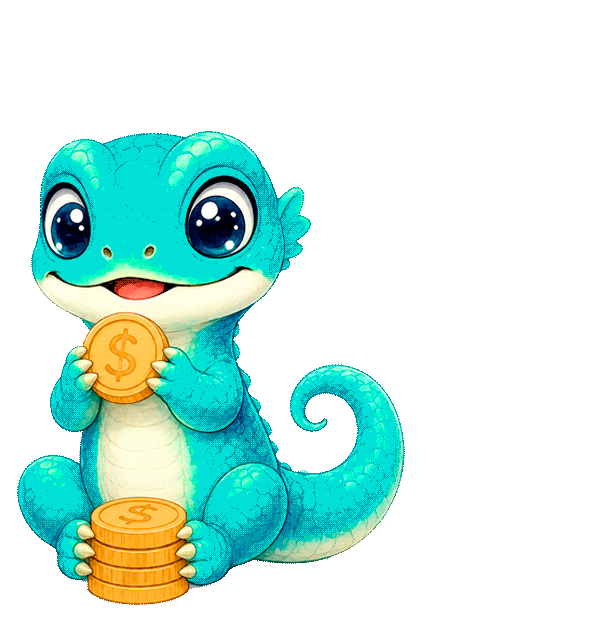
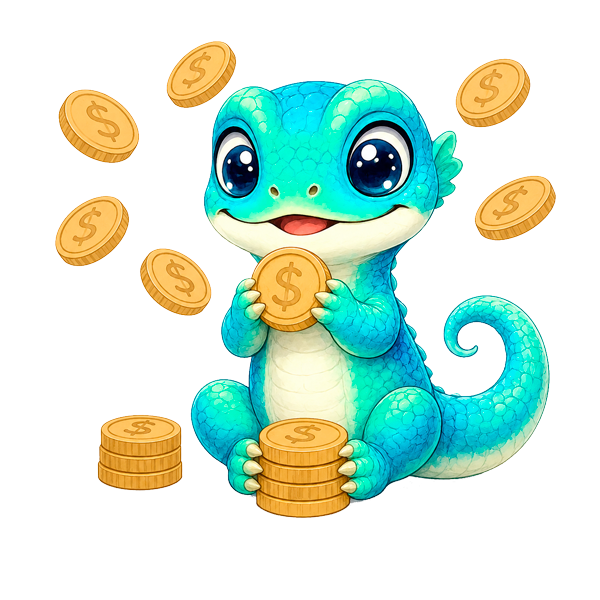
cambios en la mascota otra vez

diff --git a/src/components/PPEF.vue b/src/components/PPEF.vue
@@ -1,80 +1,115 @@
 <template>
   <section class="hero" v-if="datos">
-    <div class=" w-full flex flex-col lg:flex-row lg:items-center lg:justify-between gap-4">
+    <div class="hero-content">
 
-      <div class=" flex-1">
-        <!-- ========================================
+      <!-- ========================================
            1. TÍTULO
       ========================================= -->
-        <div class="hero-title">
-          <h1 class="titulo-principal">
-            <span class="linea">
-              Paquete Económico 2027
-            </span>
-          </h1>
-        </div>
+      <div class="hero-title">
+        <h1 class="titulo-principal">
+          <span class="linea">
+            Paquete Económico 2027
+          </span>
+        </h1>
+      </div>
 
-        <!-- ========================================
+
+      <div class="hero-image">
+        <img :src="`${baseUrl}secciones/PPEF/XIUH.png`" alt="XIUH" class="xiuh" />
+        <img :src="`${baseUrl}secciones/PPEF/soy_XIUH.png`" alt="Soy XIUH" class="w-[50%]" />
+      </div>
+
+
+      <!-- ========================================
            3. DATOS
       ========================================= -->
-        <div class="hero-info">
+      <div class="hero-info">
 
-          <div class="bloque-datos">
-            <p class="etiqueta">
-              {{ datos.subtituloGasto }}
-            </p>
+        <div class="bloque-datos">
+          <p class="etiqueta">
+            {{ datos.subtituloGasto }}
+          </p>
 
-            <p class="monto">
-              {{ datos.monto }}
-            </p>
+          <p class="monto">
+            {{ datos.monto }}
+          </p>
 
-            <p class="unidad">
-              {{ datos.unidad }}
-            </p>
-          </div>
-
-
-          <div class="bloque-crecimiento">
-            <p class="porcentaje">
-              {{ datos.crecimiento }}
-            </p>
-
-            <p class="comparativa">
-              {{ datos.comparativa }}
-            </p>
-
-            <p class="nota">
-              {{ datos.nota }}
-            </p>
-          </div>
-
+          <p class="unidad">
+            {{ datos.unidad }}
+          </p>
         </div>
+
+
+        <div class="bloque-crecimiento">
+          <p class="porcentaje">
+            {{ datos.crecimiento }}
+          </p>
+
+          <p class="comparativa">
+            {{ datos.comparativa }}
+          </p>
+
+          <p class="nota">
+            {{ datos.nota }}
+          </p>
+        </div>
+
       </div>
-      <!-- ========================================
-           2. MASCOTA
-      ========================================= -->
-      <div class="hero-image">
-        <img :src="`${baseUrl}secciones/PPEF/XIUH.${image}`" alt="XIUH" @mouseenter="image = 'gif'"
-          @mouseleave="image = 'png'" />
-      </div>
+
     </div>
+
+  </section>
+  <section class="w-full flex flex-col items-center justify-center contenedor-xiuh"
+    ref="contenedorXiuh">
+    <article class="ver-mas w-full  flex-col xl:flex-row gap-4 transition transition-all duration-300 ease" :class="{
+      'activo': verMas,
+    }">
+      <Tarjetas_XIUH :card="card" v-for="card in xiuh" :key="card.titulo" />
+    </article>
+    <button type="button" class="text-white cursor-pointer 
+          flex flex-col items-center justify-center" :class="{ 'animate-bounce ': !verMas }" @click="verMas = !verMas">
+      <ChevronDobleDown class="text-3xl transition transition-all duration-300 ease"
+        :class="{ 'rotate-180': verMas }" />
+      <span class="transition transition-all duration-300 ease" :class="{ 'opacity-0': verMas }">Conóceme</span>
+    </button>
   </section>
 </template>
 
 <script setup>
-import { onMounted, ref } from 'vue'
+import { onMounted, onUnmounted, ref } from 'vue'
 import { fetchPublicJson } from './utils/utils.js';
-import Mascota from './utils/Mascota.vue'
 import { baseUrl } from './secciones/Inversion/mapController.js';
-
+import ChevronDobleDown from './utils/Icons/ChevronDobleDown.vue';
+import Tarjetas_XIUH from './Tarjetas_XIUH.vue';
+const verMas = ref(false);
 const datos = ref(null)
-const image = ref('png')
-
+const xiuh = ref(null);
+const contenedorXiuh=ref(null);
 onMounted(async () => {
   datos.value = await fetchPublicJson(
     "/secciones/PPEF/paquete.json"
   );
+  xiuh.value = await fetchPublicJson("/secciones/PPEF/xiuh.json")
 });
+const handleClickOutside = (event) => {
+  const target = event.target 
+
+  if (
+    contenedorXiuh.value &&
+    !contenedorXiuh.value.contains(target)
+  ) {
+    verMas.value = false
+  }
+}
+onMounted(() => {
+  document.addEventListener('click', handleClickOutside)
+})
+
+onUnmounted(() => {
+  document.removeEventListener('click', handleClickOutside)
+})
+
+
 </script>
 
 <style scoped>
@@ -82,7 +117,6 @@ onMounted(async () => {
   position: relative;
 
   width: 100%;
-  min-height: 70dvh;
 
   display: flex;
   align-items: center;
@@ -90,7 +124,7 @@ onMounted(async () => {
 
   padding: 3rem;
   box-sizing: border-box;
-
+  padding-bottom: 1rem;
   overflow: visible;
 }
 
@@ -121,7 +155,7 @@ onMounted(async () => {
 
   display: flex;
   align-items: center;
-  justify-content: flex-start;
+  justify-content: flex-end;
 
   color: #ffffff;
 }
@@ -134,8 +168,10 @@ onMounted(async () => {
 
   font-size: clamp(2.8rem, 4vw, 4.5rem);
 
+  line-height: 1.05;
+  letter-spacing: -0.02em;
 
-  text-align: left;
+  text-align: right;
 }
 
 .titulo-principal .linea {
@@ -148,16 +184,19 @@ onMounted(async () => {
 ======================================== */
 
 .hero-image {
+  width: 100%;
   min-width: 0;
 
   display: flex;
   align-items: center;
   justify-content: center;
+  flex-direction: column;
 }
 
-.hero-image :deep(img) {
+.hero-image.xiuh {
   display: block;
 
+  width: 100%;
   max-width: 450px;
 
   height: auto;
@@ -181,7 +220,6 @@ onMounted(async () => {
   gap: 2.5rem;
 
   color: #ffffff;
-  margin-top: 1rem;
 }
 
 .bloque-datos {
@@ -262,6 +300,7 @@ onMounted(async () => {
 ========================================================== */
 
 .hero-image {
+  width: 100%;
 
   display: flex;
 
@@ -277,11 +316,11 @@ onMounted(async () => {
   evita que pueda romper el grid.
 */
 
-.hero-image :deep(img) {
+.hero-image.xiuh {
   display: block;
 
   width: 100%;
-  max-width: 600px;
+  max-width: 450px;
 
   height: auto;
 
@@ -321,7 +360,7 @@ onMounted(async () => {
   }
 
 
-  .hero-image :deep(img) {
+  .hero-image.xiuh {
     max-width: 360px;
   }
 
@@ -331,7 +370,7 @@ onMounted(async () => {
    RESPONSIVE <= 1024px
 ========================================================== */
 
-@media (max-width: 1023px) {
+@media (max-width: 1024px) {
 
   .hero {
     min-height: auto;
@@ -453,7 +492,7 @@ onMounted(async () => {
   }
 
 
-  .hero-image :deep(img) {
+  .hero-image.xiuh {
     width: min(70vw, 550px);
     max-width: 550px;
 
@@ -508,9 +547,35 @@ onMounted(async () => {
   }
 
 
-  .hero-image :deep(img) {
+  .hero-image.xiuh {
     width: min(90vw, 450px);
   }
 
+}
+
+
+.ver-mas {
+  display: flex;
+  max-height: 0px;
+  overflow-y: auto;
+  margin-bottom: 1rem;
+}
+
+.ver-mas.activo {
+  display: flex;
+  max-height: 100dvh;
+}
+@media (min-width:1280px){
+  .ver-mas {
+  display: flex;
+  max-height: 0px;
+  overflow-y: hidden;
+  margin-bottom: 1rem;
+}
+
+.ver-mas.activo {
+  display: flex;
+  max-height: 300px;
+}
 }
 </style>

diff --git a/src/components/Tarjetas_XIUH.vue b/src/components/Tarjetas_XIUH.vue
@@ -1,0 +1,62 @@
+<script setup lang="ts">
+import { baseUrl } from './secciones/Inversion/mapController';
+
+
+
+const props = defineProps<Props>()
+
+interface Props {
+    card: Tarjeta
+}
+
+
+export interface Tarjeta {
+    titulo: string;
+    descripcion: string;
+    img: string;
+    lista?: string[];
+}
+</script>
+<template>
+    <div class="rounded-4xl card-xiuh flex flex-col items-center justify-start text-white p-8">
+        <h3 v-html="card.titulo"></h3>
+        <div class="flex items-start justify-between gap-4">
+            <img :src="`${baseUrl}${card.img}`" :alt="card.titulo" class="w-[8rem]" />
+            <div>
+                <p v-html="card.descripcion" class="card-descripcion"></p>
+                <div v-if="card.lista" class=" flex items-start justify-end">
+                    <ul class=" w-auto">
+                        <li v-for="item in card.lista" :key="item" v-html="item"></li>
+                    </ul>
+                </div>
+            </div>
+        </div>
+    </div>
+</template>
+<style scoped>
+.card-xiuh {
+    background-color: #52889f;
+    flex: 1;
+}
+
+.card-descripcion {
+    color: white;
+    margin: 0;
+}
+
+ul {
+    list-style: disc;
+}
+
+li::marker {
+    color: #00f1ef;
+}
+
+li:nth-child(3n + 2)::marker {
+    color: #33ccff;
+}
+
+li:nth-child(3n)::marker {
+    color: #009999;
+}
+</style>

diff --git a/src/components/utils/Icons/ChevronDobleDown.vue b/src/components/utils/Icons/ChevronDobleDown.vue
@@ -1,0 +1,6 @@
+<template>
+    <svg xmlns="http://www.w3.org/2000/svg" width="1em" height="1em" fill="currentColor" class="bi bi-chevron-double-down" viewBox="0 0 16 16">
+  <path fill-rule="evenodd" d="M1.646 6.646a.5.5 0 0 1 .708 0L8 12.293l5.646-5.647a.5.5 0 0 1 .708.708l-6 6a.5.5 0 0 1-.708 0l-6-6a.5.5 0 0 1 0-.708"/>
+  <path fill-rule="evenodd" d="M1.646 2.646a.5.5 0 0 1 .708 0L8 8.293l5.646-5.647a.5.5 0 0 1 .708.708l-6 6a.5.5 0 0 1-.708 0l-6-6a.5.5 0 0 1 0-.708"/>
+</svg>
+    </template>

diff --git a/src/App.vue b/src/App.vue
@@ -65,7 +65,7 @@ onUnmounted(() => {
   <NavPlantilla :active="activeHash" />
 
   <div id="secciones" class="ppef bg-white grid grid-template-">
-    <div id="inicio" class="seccion" style="background: linear-gradient(rgb(1, 126, 144), rgb(0, 49, 97)); border-radius: 0 0 70px 70px">
+    <div id="inicio" class="seccion min-h-[70dvh]" style="background: linear-gradient(rgb(1, 126, 144), rgb(0, 49, 97)); border-radius: 0 0 70px 70px">
       <PPEF />
     </div>
     <div class="seccion">
